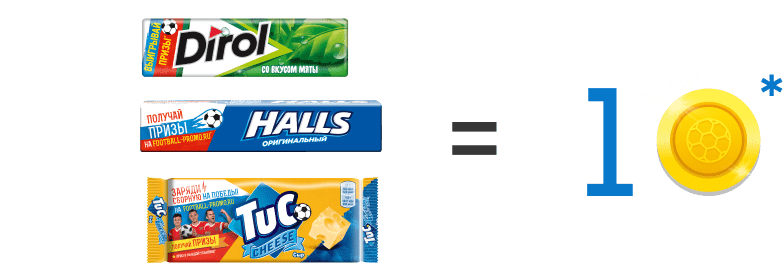
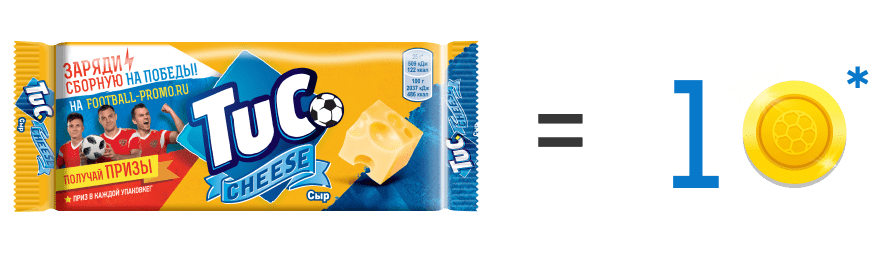
new wave

diff --git a/products.html b/products.html
@@ -31,21 +31,9 @@
 		<div class="content">
 			<div class="full-container">
 				<header>
-					<div class="logos">
-						<div class="logo logo-ag">
-							<img src="img/ag.png" alt="">
-						</div>
-						<div class="logo logo-oreo">
-							<img src="img/oreo.png" alt="">
-						</div>
+					<div class="logos new-logos">
 						<div class="logo logo-tuc">
 							<img src="img/tuc.png" alt="">
-						</div>
-						<div class="logo logo-halls">
-							<img src="img/halls.png" alt="">
-						</div>
-						<div class="logo logo-dirol">
-							<img src="img/dirol.png" alt="">
 						</div>
 					</div>
 					<div class="menu">
@@ -111,139 +99,6 @@
 												<img src="img/products/tuc-product6.png" alt="">
 											</div>
 											<div class="products-item-name">TUC <br>Копчёные колбаски, 100 г</div>
-										</div>
-									</div>
-								</div>
-							</div>
-							<div class="products-group">
-								<div class="products-title accordion-title">
-									<div class="products-logo">
-										<img src="img/dirol.png" alt="">
-									</div>
-									<span>dirol</span>
-								</div>
-								<div class="products-list-wrap">
-									<div class="products-list">
-										<div class="products-item">
-											<div class="products-item-img">
-												<img src="img/products/dirol-product1.png" alt="">
-											</div>
-											<div class="products-item-name">Dirol <br>Арбузно-дынный коктейль, 13.6 г</div>
-										</div>
-										<div class="products-item">
-											<div class="products-item-img">
-												<img src="img/products/dirol-product2.png" alt="">
-											</div>
-											<div class="products-item-name">Dirol <br>Ледяная мята, 13.6 г</div>
-										</div>
-										<div class="products-item">
-											<div class="products-item-img">
-												<img src="img/products/dirol-product3.png" alt="">
-											</div>
-											<div class="products-item-name">Dirol <br>Мята, 13.6 г</div>
-										</div>
-										<div class="products-item">
-											<div class="products-item-img">
-												<img src="img/products/dirol-product4.png" alt="">
-											</div>
-											<div class="products-item-name">Dirol <br>Клубника и черешня, 13.6 г</div>
-										</div>
-										<div class="products-item">
-											<div class="products-item-img">
-												<img src="img/products/dirol-product5.png" alt="">
-											</div>
-											<div class="products-item-name">Dirol <br>Сладкая мята, 14 г</div>
-										</div>
-										<div class="products-item">
-											<div class="products-item-img">
-												<img src="img/products/dirol-product6.png" alt="">
-											</div>
-											<div class="products-item-name">Dirol <br>Арбузная свежесть, 13.6 г</div>
-										</div>
-										<div class="products-item">
-											<div class="products-item-img">
-												<img src="img/products/dirol-product7.png" alt="">
-											</div>
-											<div class="products-item-name">Dirol X-Fresh <br>Свежесть черники и цитруса, 16 г</div>
-										</div>
-										<div class="products-item">
-											<div class="products-item-img">
-												<img src="img/products/dirol-product8.png" alt="">
-											</div>
-											<div class="products-item-name">Dirol X-Fresh <br>Свежесть черники и цитруса, 16 г</div>
-										</div>
-										<div class="products-item">
-											<div class="products-item-img">
-												<img src="img/products/dirol-product9.png" alt="">
-											</div>
-											<div class="products-item-name">Dirol X-Fresh <br>Ледяной мандарин, 16 г</div>
-										</div>
-										<div class="products-item">
-											<div class="products-item-img">
-												<img src="img/products/dirol-product10.png" alt="">
-											</div>
-											<div class="products-item-name">Dirol X-Fresh <br>Ледяной мандарин, 16 г</div>
-										</div>
-										<div class="products-item">
-											<div class="products-item-img">
-												<img src="img/products/dirol-product11.png" alt="">
-											</div>
-											<div class="products-item-name">Dirol X-Fresh <br>Арбузный лед, 16 г</div>
-										</div>
-										<div class="products-item">
-											<div class="products-item-img">
-												<img src="img/products/dirol-product12.png" alt="">
-											</div>
-											<div class="products-item-name">Dirol X-Fresh <br>Арбузный лед, 16 г</div>
-										</div>
-										<div class="products-item">
-											<div class="products-item-img">
-												<img src="img/products/dirol-product13.png" alt="">
-											</div>
-											<div class="products-item-name">Dirol X-Fresh <br>Мятная свежесть, 16 г</div>
-										</div>
-										<div class="products-item">
-											<div class="products-item-img">
-												<img src="img/products/dirol-product14.png" alt="">
-											</div>
-											<div class="products-item-name">Dirol X-Fresh <br>Мятная свежесть, 16 г</div>
-										</div>
-										<div class="products-item"></div>
-									</div>
-								</div>
-							</div>
-							<div class="products-group">
-								<div class="products-title accordion-title">
-									<div class="products-logo">
-										<img src="img/halls.png" alt="">
-									</div>
-									<span>halls</span>
-								</div>
-								<div class="products-list-wrap">
-									<div class="products-list">
-										<div class="products-item">
-											<div class="products-item-img">
-												<img src="img/products/halls-product1.png" alt="">
-											</div>
-											<div class="products-item-name">Halls <br>Colors, 25 г</div>
-										</div>
-										<div class="products-item">
-											<div class="products-item-img">
-												<img src="img/products/halls-product2.png" alt="">
-											</div>
-											<div class="products-item-name">Halls <br>Ментол экстра, 24.5 г</div>
-										</div>
-										<div class="products-item">
-											<div class="products-item-img">
-												<img src="img/products/halls-product3.png" alt="">
-											</div>
-											<div class="products-item-name">Halls <br>Мёд и лимон, 25 г</div>
-										</div>
-										<div class="products-item">
-											<div class="products-item-img">
-												<img src="img/products/halls-product4.png" alt="">
-											</div>
-											<div class="products-item-name">Halls <br>Оригинальный, 25 г</div>
 										</div>
 									</div>
 								</div>

diff --git a/css/styles.css b/css/styles.css
@@ -1179,7 +1179,7 @@ span.error {
 }
 
 .products-slider {
-	display: flex;
+	/*display: flex;*/
 }
 
 .product-slide {
@@ -1253,7 +1253,7 @@ span.error {
 	top: 0;
     left: 60px;
     bottom: 0;
-    height: 320px;
+    height: 110px;
     margin: auto;
     display: flex;
     flex-direction: column;
@@ -1280,20 +1280,20 @@ span.error {
     opacity: .6;
 }*/
 
-.main-products .slick-dots li:nth-child(1) {
+/*.main-products .slick-dots li:nth-child(1) {
 	background: url(../img/halls.png) center no-repeat, #00AFEF;
 	background-size: 87px;
-}
+}*/
 
-.main-products .slick-dots li:nth-child(2) {
+.main-products .slick-dots li:nth-child(1) {
 	background: url(../img/tuc.png) center no-repeat, #FFEF13;
 	background-size: 94px;
 }
 
-.main-products .slick-dots li:nth-child(3) {
+/*.main-products .slick-dots li:nth-child(3) {
 	background: url(../img/dirol.png) center no-repeat, #003BAC;
 	background-size: 68px;
-}
+}*/
 
 .main-products .slick-dots li button {
 	width: 100%;
@@ -2427,7 +2427,7 @@ button.scoreboard-btn {
 }
 
 .new-logos {
-    max-width: 240px;
+    max-width: 74px;
 }
 
 .logo {
@@ -6803,7 +6803,7 @@ table td {
     }
 
     .new-logos {
-        max-width: 240px;
+        max-width: 74px;
     }
 
     .tm-logos {
@@ -7004,7 +7004,7 @@ table td {
     }
 
     .new-logos {
-        max-width: 180px;
+        max-width: 64px;
     }
 
     .tm-logos {
@@ -7740,7 +7740,7 @@ table td {
     }
 
     .new-logos {
-        max-width: 180px;
+        max-width: 64px;
         display: flex;
     }
 
@@ -7932,7 +7932,7 @@ table td {
 	}
 
 	.main-products .slick-dots {
-		max-width: 185px;
+		max-width: 66px;
 		width: 100%;
         height: auto;
 	    top: 130px;
@@ -7972,20 +7972,20 @@ table td {
 		background-size: 48px;
 	}*/
 
-	.main-products .slick-dots li:nth-child(1) {
+	/*.main-products .slick-dots li:nth-child(1) {
 		background: url(../img/halls.png) center no-repeat, #00AFEF;
 		background-size: 54px;
-	}
+	}*/
 
-	.main-products .slick-dots li:nth-child(2) {
+	.main-products .slick-dots li:nth-child(1) {
 		background: url(../img/tuc.png) center no-repeat, #FFEF13;
 		background-size: 58px;
 	}
 
-	.main-products .slick-dots li:nth-child(3) {
+	/*.main-products .slick-dots li:nth-child(3) {
 		background: url(../img/dirol.png) center no-repeat, #003BAC;
 		background-size: 42px;
-	}
+	}*/
 
 	.product-slide .product-slide-img {
 		max-width: 380px;
@@ -8516,7 +8516,7 @@ table td {
 	}
 
     .new-logos {
-        max-width: 180px;
+        max-width: 64px;
     }
 
 	.logo {
@@ -10313,7 +10313,7 @@ table td {
 	}
 
     .new-logos {
-        max-width: 180px;
+        max-width: 64px;
     }
 
 	.garant-prize-title {

diff --git a/index.html b/index.html
@@ -47,27 +47,15 @@
 				<section class="main-products">
 					<div class="products-slider-wrapper">
 						<div class="products-slider">
-							<div class="product-slide halls-slide">
-								<div class="product-slide-img">
-									<img src="img/main-slider/bg-slide-halls.png" class="bg-slide" alt="">
-									<img src="img/main-slider/img-slide-halls.png" class="img-slide" alt="">
-								</div>
-							</div>
 							<div class="product-slide tuc-slide">
 								<div class="product-slide-img">
 									<img src="img/main-slider/bg-slide-tuc.png" class="bg-slide" alt="">
 									<img src="img/main-slider/img-slide-tuc.png" class="img-slide" alt="">
 								</div>
 							</div>
-							<div class="product-slide dirol-slide">
-								<div class="product-slide-img">
-									<img src="img/main-slider/bg-slide-dirol.png" class="bg-slide" alt="">
-									<img src="img/main-slider/img-slide-dirol.png" class="img-slide" alt="">
-								</div>
-							</div>
 						</div>
 						<form class="register-code">
-							<div class="register-code-title black-title">Регистрируй коды с пачек TUC,<br>Halls, Dirol и выигрывай  призы!</div>
+							<div class="register-code-title black-title">Регистрируй коды с пачек TUC <br>и выигрывай призы!</div>
 							<div class="register-code-field">
 		                		<input type="text" name="code" placeholder="Введи код с пачки" required>
 		                		<button></button>
@@ -163,7 +151,7 @@
 									<img src="img/step1.svg" alt="">
 								</div>
 								<div class="step-title">покупай</div>
-								<div class="step-desc">TUC, Halls, Dirol <br><br></div>
+								<div class="step-desc">TUC<br><br></div>
 								<a href="#!" class="step-link link">Открыть полный список</a>
 							</div>
 							<div class="ball-mini ball-mini1"></div>

diff --git a/how-to-win.html b/how-to-win.html
@@ -35,12 +35,6 @@
 						<div class="logo logo-tuc">
 							<img src="img/tuc.png" alt="">
 						</div>
-						<div class="logo logo-halls">
-							<img src="img/halls.png" alt="">
-						</div>
-						<div class="logo logo-dirol">
-							<img src="img/dirol.png" alt="">
-						</div>
 					</div>
 					<div class="menu">
 						<a href="#!" class="burger"></a>
@@ -68,7 +62,7 @@
 								<img src="img/how-to/1.png" alt="">
 							</div>
 							<div class="win-text win-text1">
-								<p>Чтобы принять участие в акции <br>необходимо купить продукт: <br><b>TUC, Halls, Dirol</b> в промо <br>упаковке и зарегистрировать код <br>на сайте.</p>
+								<p>Чтобы принять участие в акции <br>необходимо купить продукт: <br><b>TUC</b> в промо упаковке <br>и зарегистрировать код <br>на сайте.</p>
 								<form class="register-code-field">
 			                		<input type="text" name="code" placeholder="Введи код с пачки" required>
 			                		<button></button>
@@ -96,7 +90,7 @@
 								</div> -->
 							</div>
 							<div class="win-step-remark win-step2-remark">
-								* При регистрации кодов с упаковки TUC, Dirol и Hall, необходимо подтвердить совершенную покупку загрузкой чека. <br>
+								* При регистрации кодов с упаковки TUC, необходимо подтвердить совершенную покупку загрузкой чека. <br>
 								Это можно сделать в специальном разделе <a href="lk.html" class="link">Загрузки чека</a>
 							</div>
 						</div>
